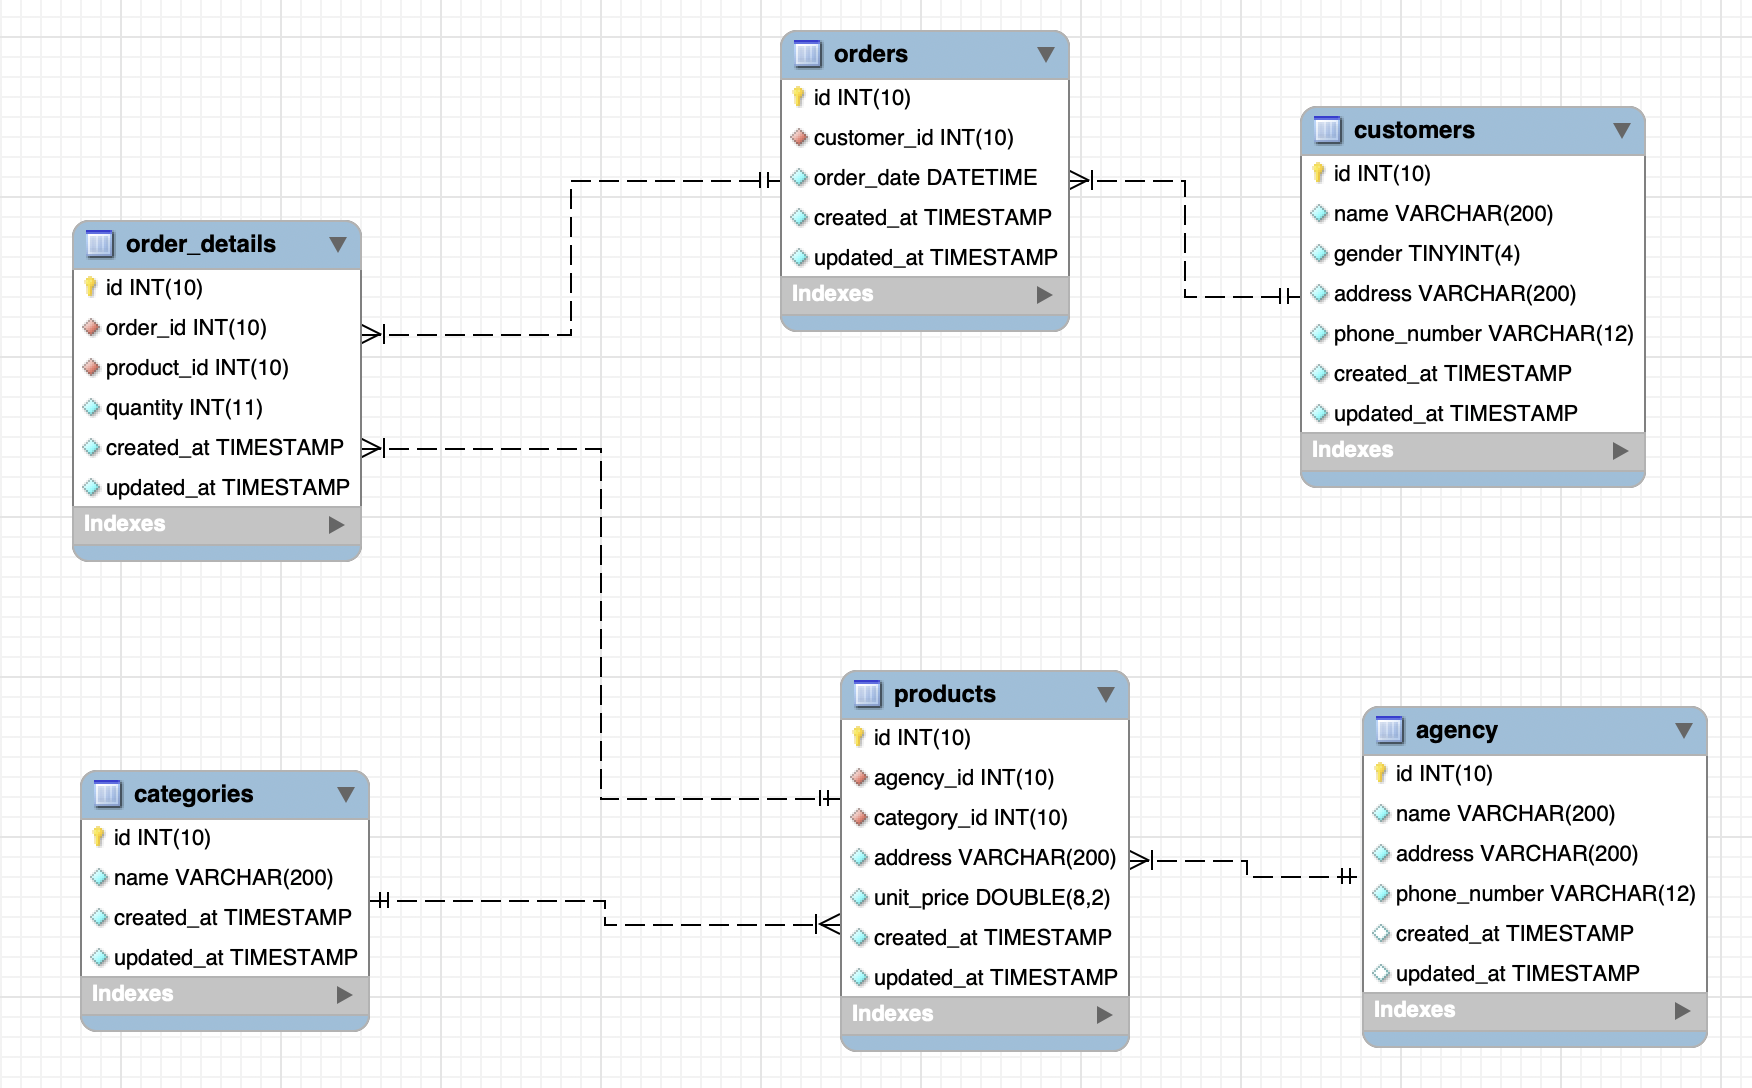
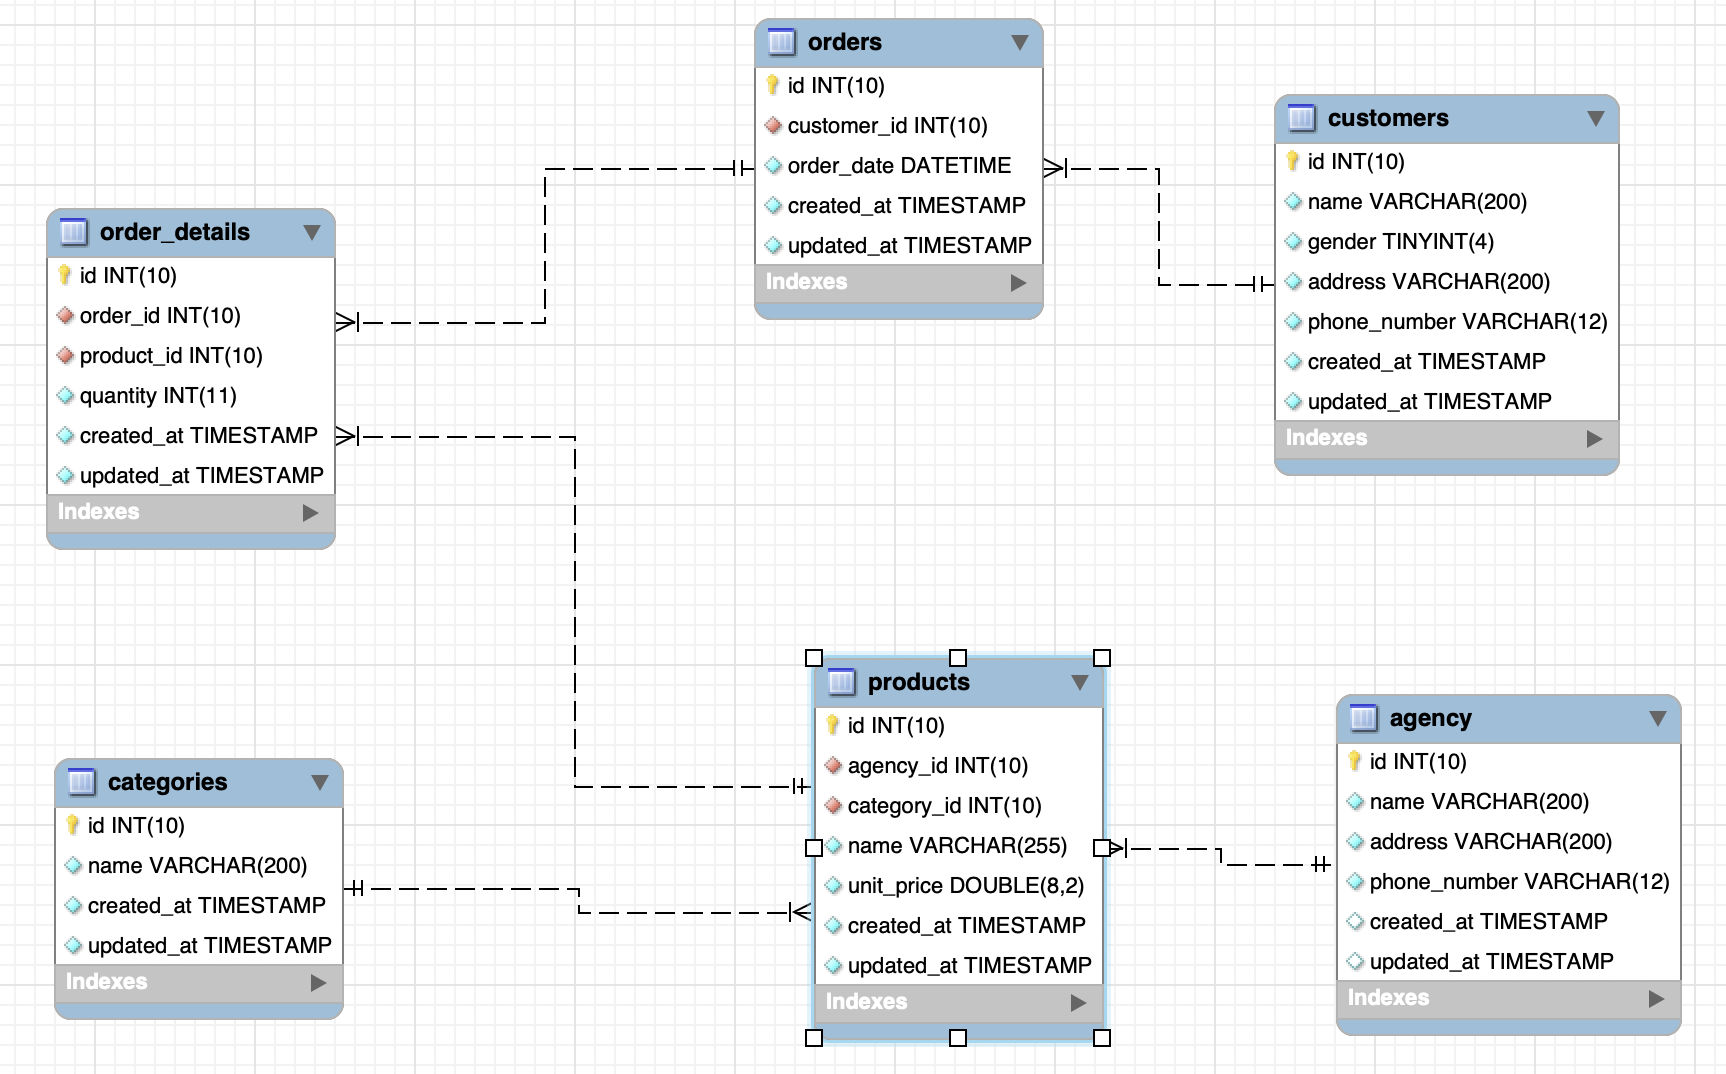
[add] product resources all APIs implemented

diff --git a/system/server/app/Http/Controllers/API/V1/ProductController.php b/system/server/app/Http/Controllers/API/V1/ProductController.php
@@ -1,11 +1,143 @@
 <?php
+declare(strict_types=1);
 
 namespace App\Http\Controllers\API\V1;
 
 use App\Http\Controllers\Controller;
+use App\Models\Product;
+use DB;
+use Illuminate\Http\JsonResponse;
 use Illuminate\Http\Request;
+use Mockery\Exception;
 
-class ProductController extends Controller
+final class ProductController extends Controller
 {
-    //
+    /**
+     * @return JsonResponse
+     */
+    public function list(): JsonResponse
+    {
+        $sql = <<<SQL
+SELECT
+    p.*,
+    a.name as agency_name,
+    c.name as category_name
+FROM
+    products p 
+        INNER JOIN agency a ON p.agency_id = a.id
+        INNER JOIN categories c ON p.category_id = c.id;
+SQL;
+
+        $results = DB::select($sql);
+
+        $result = [];
+
+        foreach ($results as $product) {
+            $result[] = [
+                'id' => $product->id,
+                'name' => $product->name,
+                'unitPrice' => $product->unit_price,
+                'agencyName' => $product->agency_name,
+                'categoryName' => $product->category_name
+            ];
+        }
+
+        return new JsonResponse( [
+            'data' => $result,
+        ]);
+    }
+
+    /**
+     * @param Request $request
+     * @return JsonResponse
+     */
+    public function get(Request $request): JsonResponse
+    {
+        $sql = <<<SQL
+SELECT
+    p.*,
+    a.name as agency_name,
+    c.name as category_name
+FROM
+    products p 
+        INNER JOIN agency a ON p.agency_id = a.id
+        INNER JOIN categories c ON p.category_id = c.id
+WHERE
+    p.id = ?;
+SQL;
+        $product = DB::selectOne($sql, [(int)$request->route('id')]);
+
+        $result = [];
+        if (!is_null($product)) {
+            $result = [
+                'id' => $product->id,
+                'name' => $product->name,
+                'unitPrice' => $product->unit_price,
+                'agencyName' => $product->agency_name,
+                'categoryName' => $product->category_name
+            ];
+        }
+
+        return new JsonResponse( [
+            'data' => $result,
+        ]);
+    }
+
+    /**
+     * @param Request $request
+     * @return void
+     */
+    public function create(Request $request): void
+    {
+        /*
+        {
+          "data": {
+            "name": "XXX",
+            "unitPrice": 10.99,
+            "agencyId": 1,
+            "categoryId": 1
+          }
+        }
+        */
+        $requestBody = $request->get('data');
+
+        $product = new Product;
+        $product->name = $requestBody['name'];
+        $product->unit_price = $requestBody['unitPrice'];
+        $product->agency_id = $requestBody['agencyId'];
+        $product->category_id = $requestBody['categoryId'];
+
+        $product->save();
+    }
+
+    /**
+     * @param Request $request
+     * @return void
+     */
+    public function update(Request $request): void
+    {
+        $requestBody = $request->get('data');
+
+        $product = Product::find((int) $request->route('id'));
+
+        if (is_null($product)) {
+            throw new Exception('Invalid parameter');
+        }
+
+        $product->name = $requestBody['name'];
+        $product->unit_price = $requestBody['unitPrice'];
+        $product->agency_id = $requestBody['agencyId'];
+        $product->category_id = $requestBody['categoryId'];
+
+        $product->update();
+    }
+
+    /**
+     * @param Request $request
+     * @return void
+     */
+    public function delete(Request $request): void
+    {
+        Product::where('id', (int) $request->route('id'))->delete();
+    }
 }

diff --git a/system/server/app/Models/Product.php b/system/server/app/Models/Product.php
@@ -5,12 +5,14 @@ namespace App\Models;
 use Illuminate\Database\Eloquent\Factories\HasFactory;
 use Illuminate\Database\Eloquent\Model;
 
+
 /**
  * App\Models\Product
  *
  * @property int $id
  * @property int $agency_id
  * @property int $category_id
+ * @property string $name
  * @property string $address
  * @property float $unit_price
  * @property \Illuminate\Support\Carbon $created_at
@@ -23,6 +25,7 @@ use Illuminate\Database\Eloquent\Model;
  * @method static \Illuminate\Database\Eloquent\Builder|Product whereCategoryId($value)
  * @method static \Illuminate\Database\Eloquent\Builder|Product whereCreatedAt($value)
  * @method static \Illuminate\Database\Eloquent\Builder|Product whereId($value)
+ * @method static \Illuminate\Database\Eloquent\Builder|Product whereName($value)
  * @method static \Illuminate\Database\Eloquent\Builder|Product whereUnitPrice($value)
  * @method static \Illuminate\Database\Eloquent\Builder|Product whereUpdatedAt($value)
  * @mixin \Eloquent
